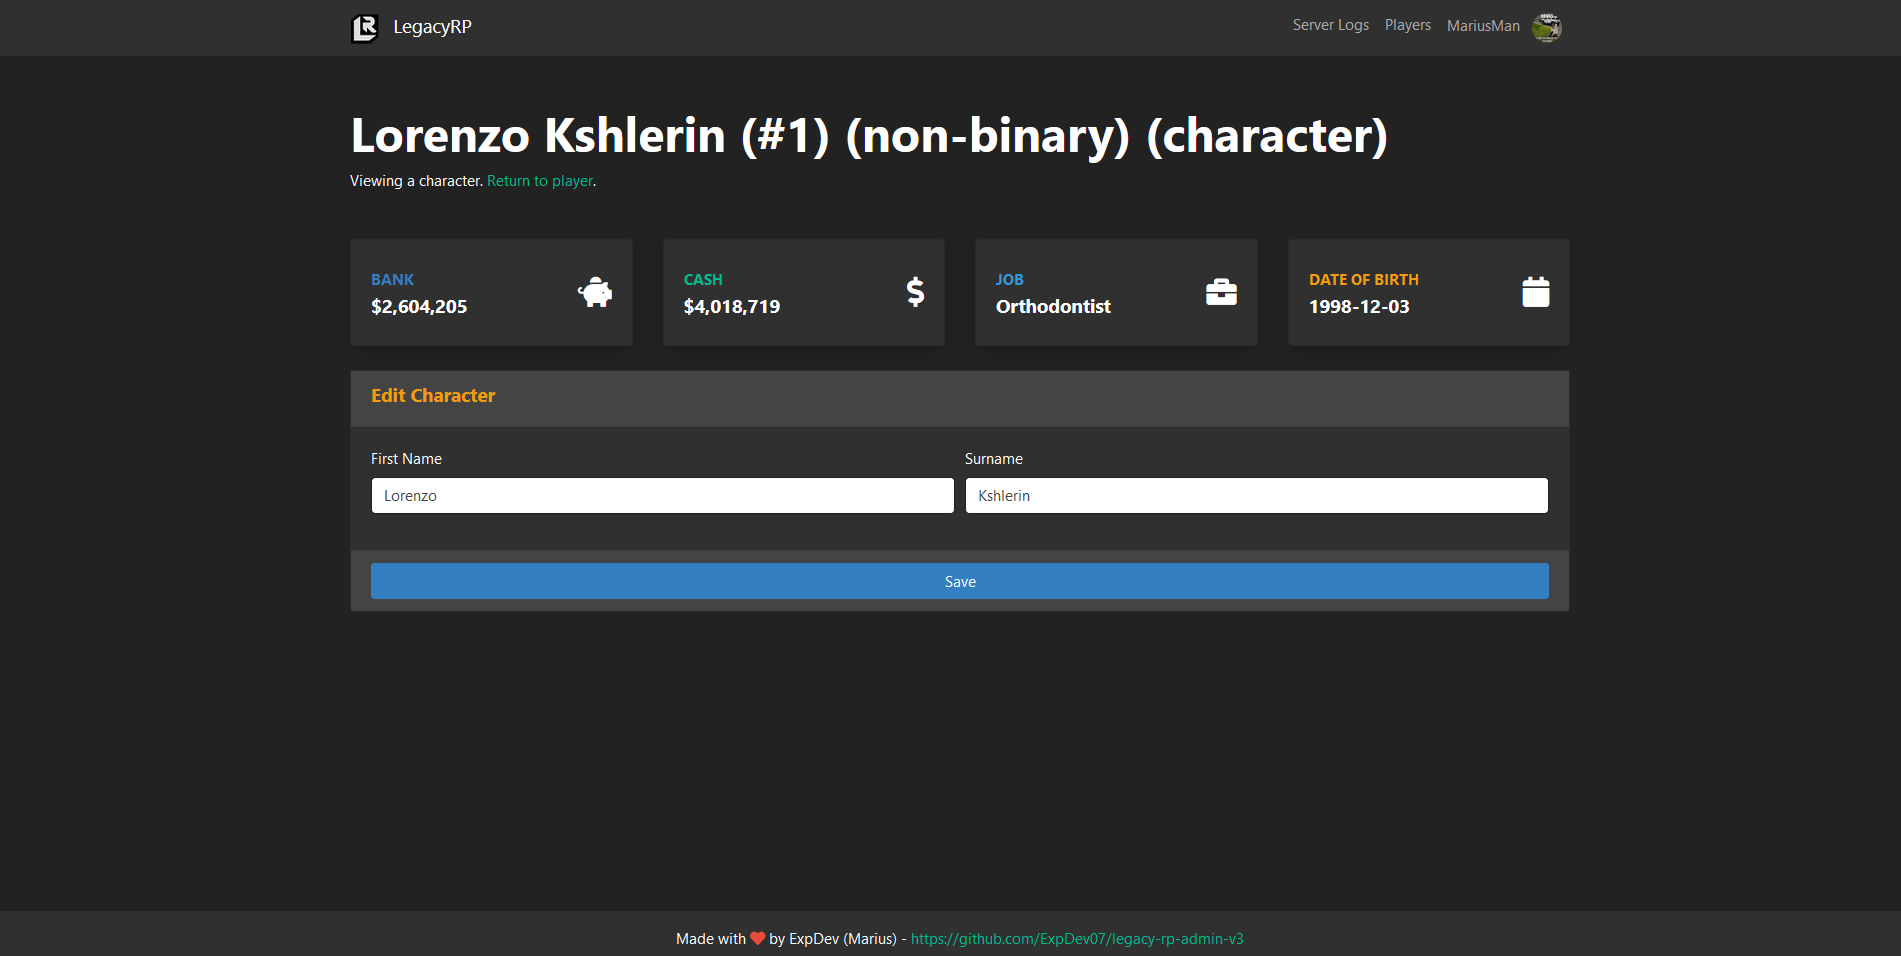
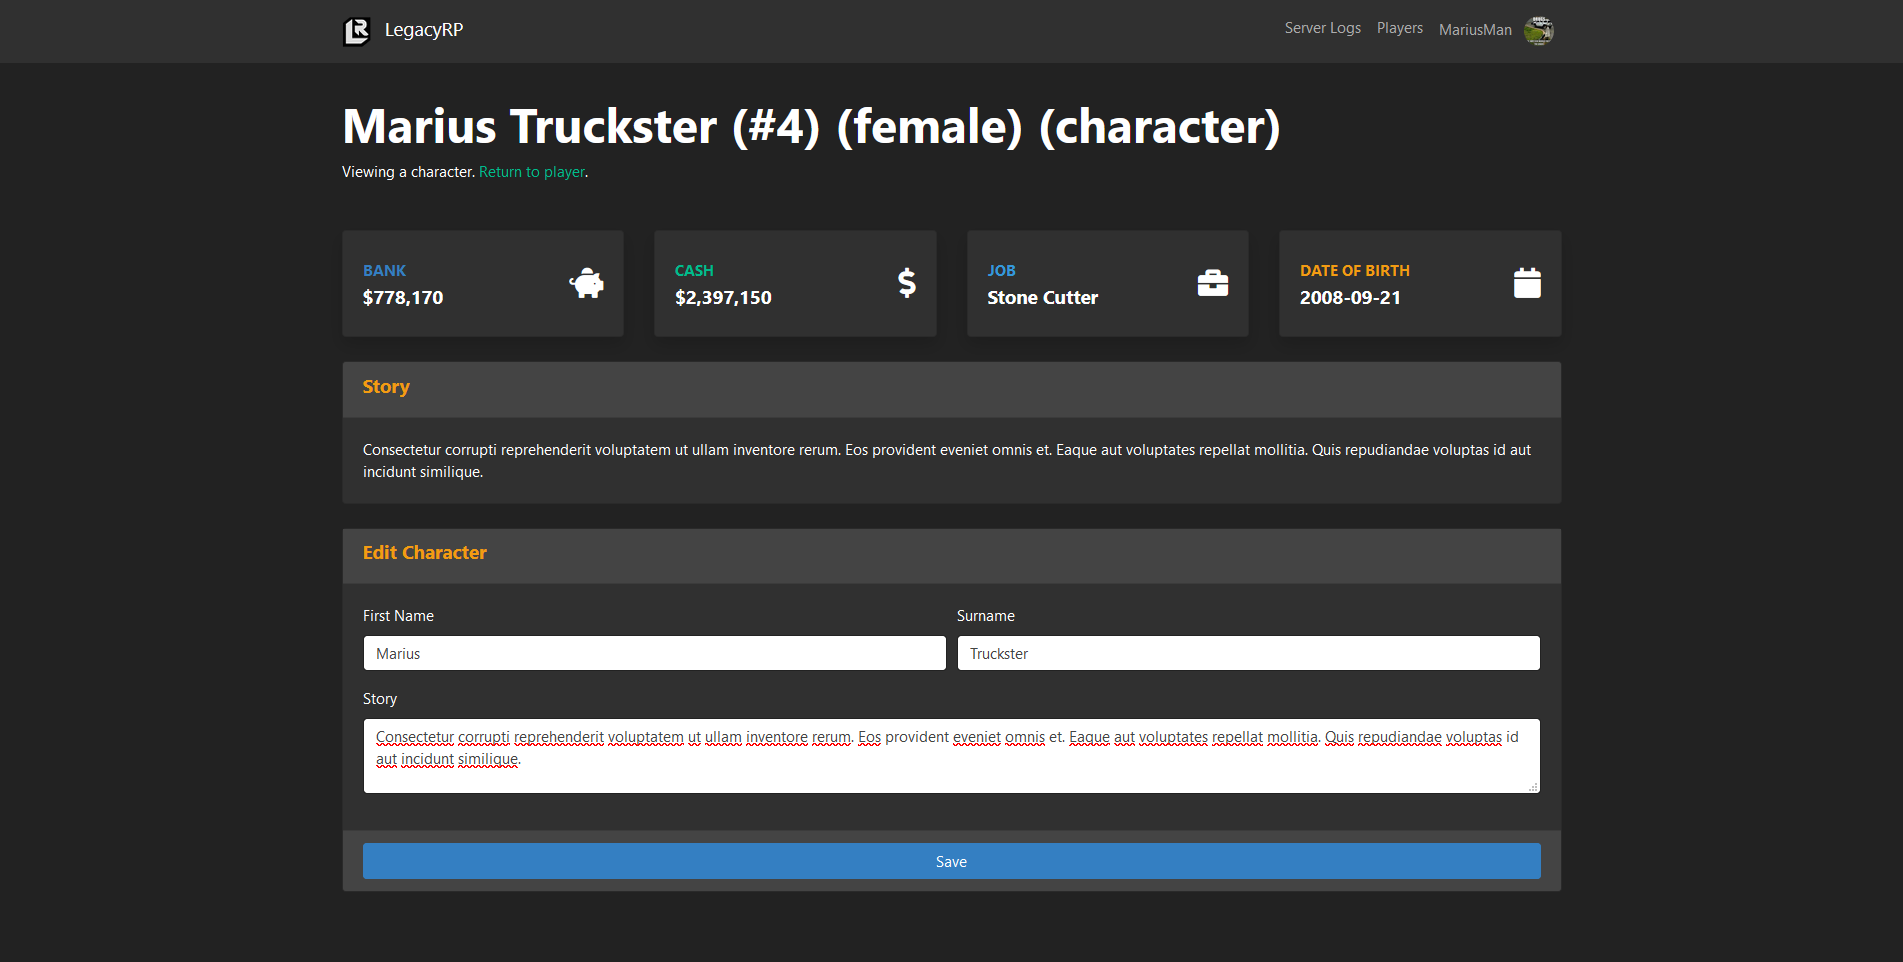
edit character story now

diff --git a/resources/views/characters/show.blade.php b/resources/views/characters/show.blade.php
@@ -79,8 +79,18 @@
         </div>
     </div>
 
+    <!-- Story -->
+    <div class="card mb-4">
+        <div class="card-header">
+            <h5 class="text-warning font-weight-bold">Story</h5>
+        </div>
+        <div class="card-body">
+            {{ $character->story }}
+        </div>
+    </div>
+
     <!-- Changing of stuff -->
-    <form class="card" method="POST">
+    <form class="card mb-4" method="POST">
         @csrf @method('PUT')
 
         <div class="card-header">
@@ -101,6 +111,11 @@
                         <input class="form-control" name="lastname" value="{{ $character->lastname }}">
                     </div>
                 </div>
+            </div>
+            <!-- Story -->
+            <div class="form-group">
+                <label>Story</label>
+                <textarea class="form-control" name="story">{{ $character->story }}</textarea>
             </div>
         </div>
         <div class="card-footer">
